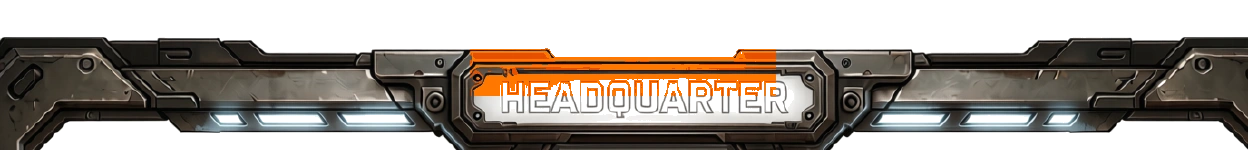
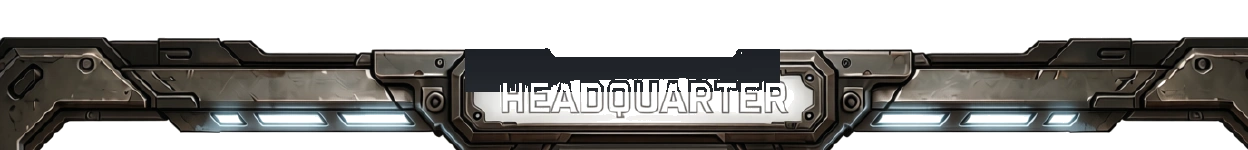
fix: clean silver text inside central plate and precisely fit glowing orange HEADQUARTER text overlay

Changed region(s): [[0.375, 0.32, 0.625, 0.6667]]

diff --git a/src/screens/HQScreen.jsx b/src/screens/HQScreen.jsx
@@ -381,7 +381,7 @@ export default function HQScreen() {
           right: 0,
           height: 64,
           zIndex: 12,
-          backgroundImage: "url('/assets/top_bezel_hq_arctron.webp?v=3')",
+          backgroundImage: "url('/assets/top_bezel_hq_arctron.webp?v=4')",
           backgroundSize: '100% 100%',
           backgroundRepeat: 'no-repeat',
           pointerEvents: 'none',
@@ -390,12 +390,12 @@ export default function HQScreen() {
         {/* Glowing Orange HEADQUARTER Plate Title Overlay */}
         <div style={{
           position: 'absolute',
-          top: 14,
+          top: 22,
           left: '50%',
           transform: 'translateX(-50%)',
           zIndex: 15,
           fontFamily: "'Orbitron', 'Share Tech Mono', sans-serif",
-          fontSize: 15,
+          fontSize: 14,
           fontWeight: 900,
           letterSpacing: 4,
           color: '#ff8c3c',
